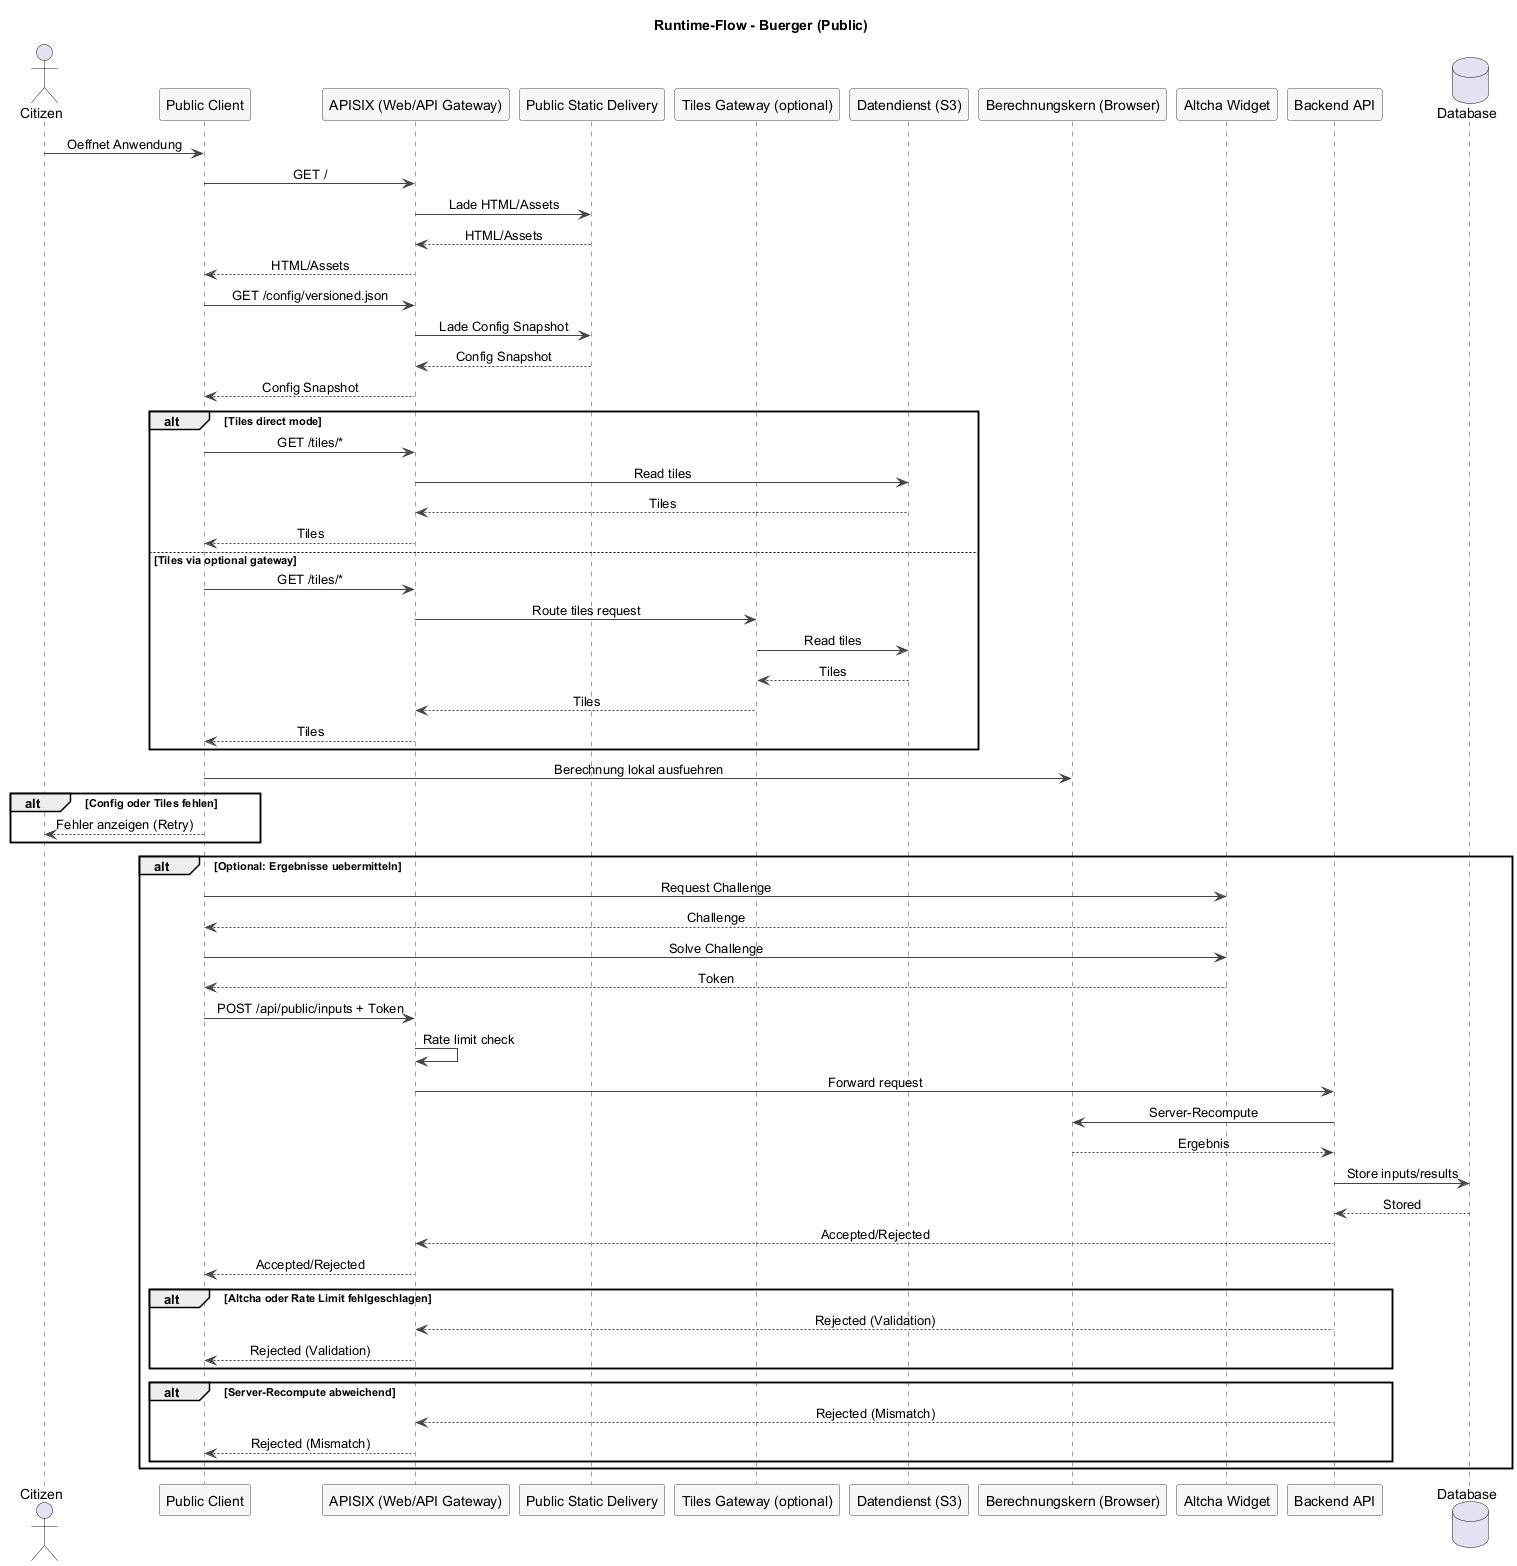
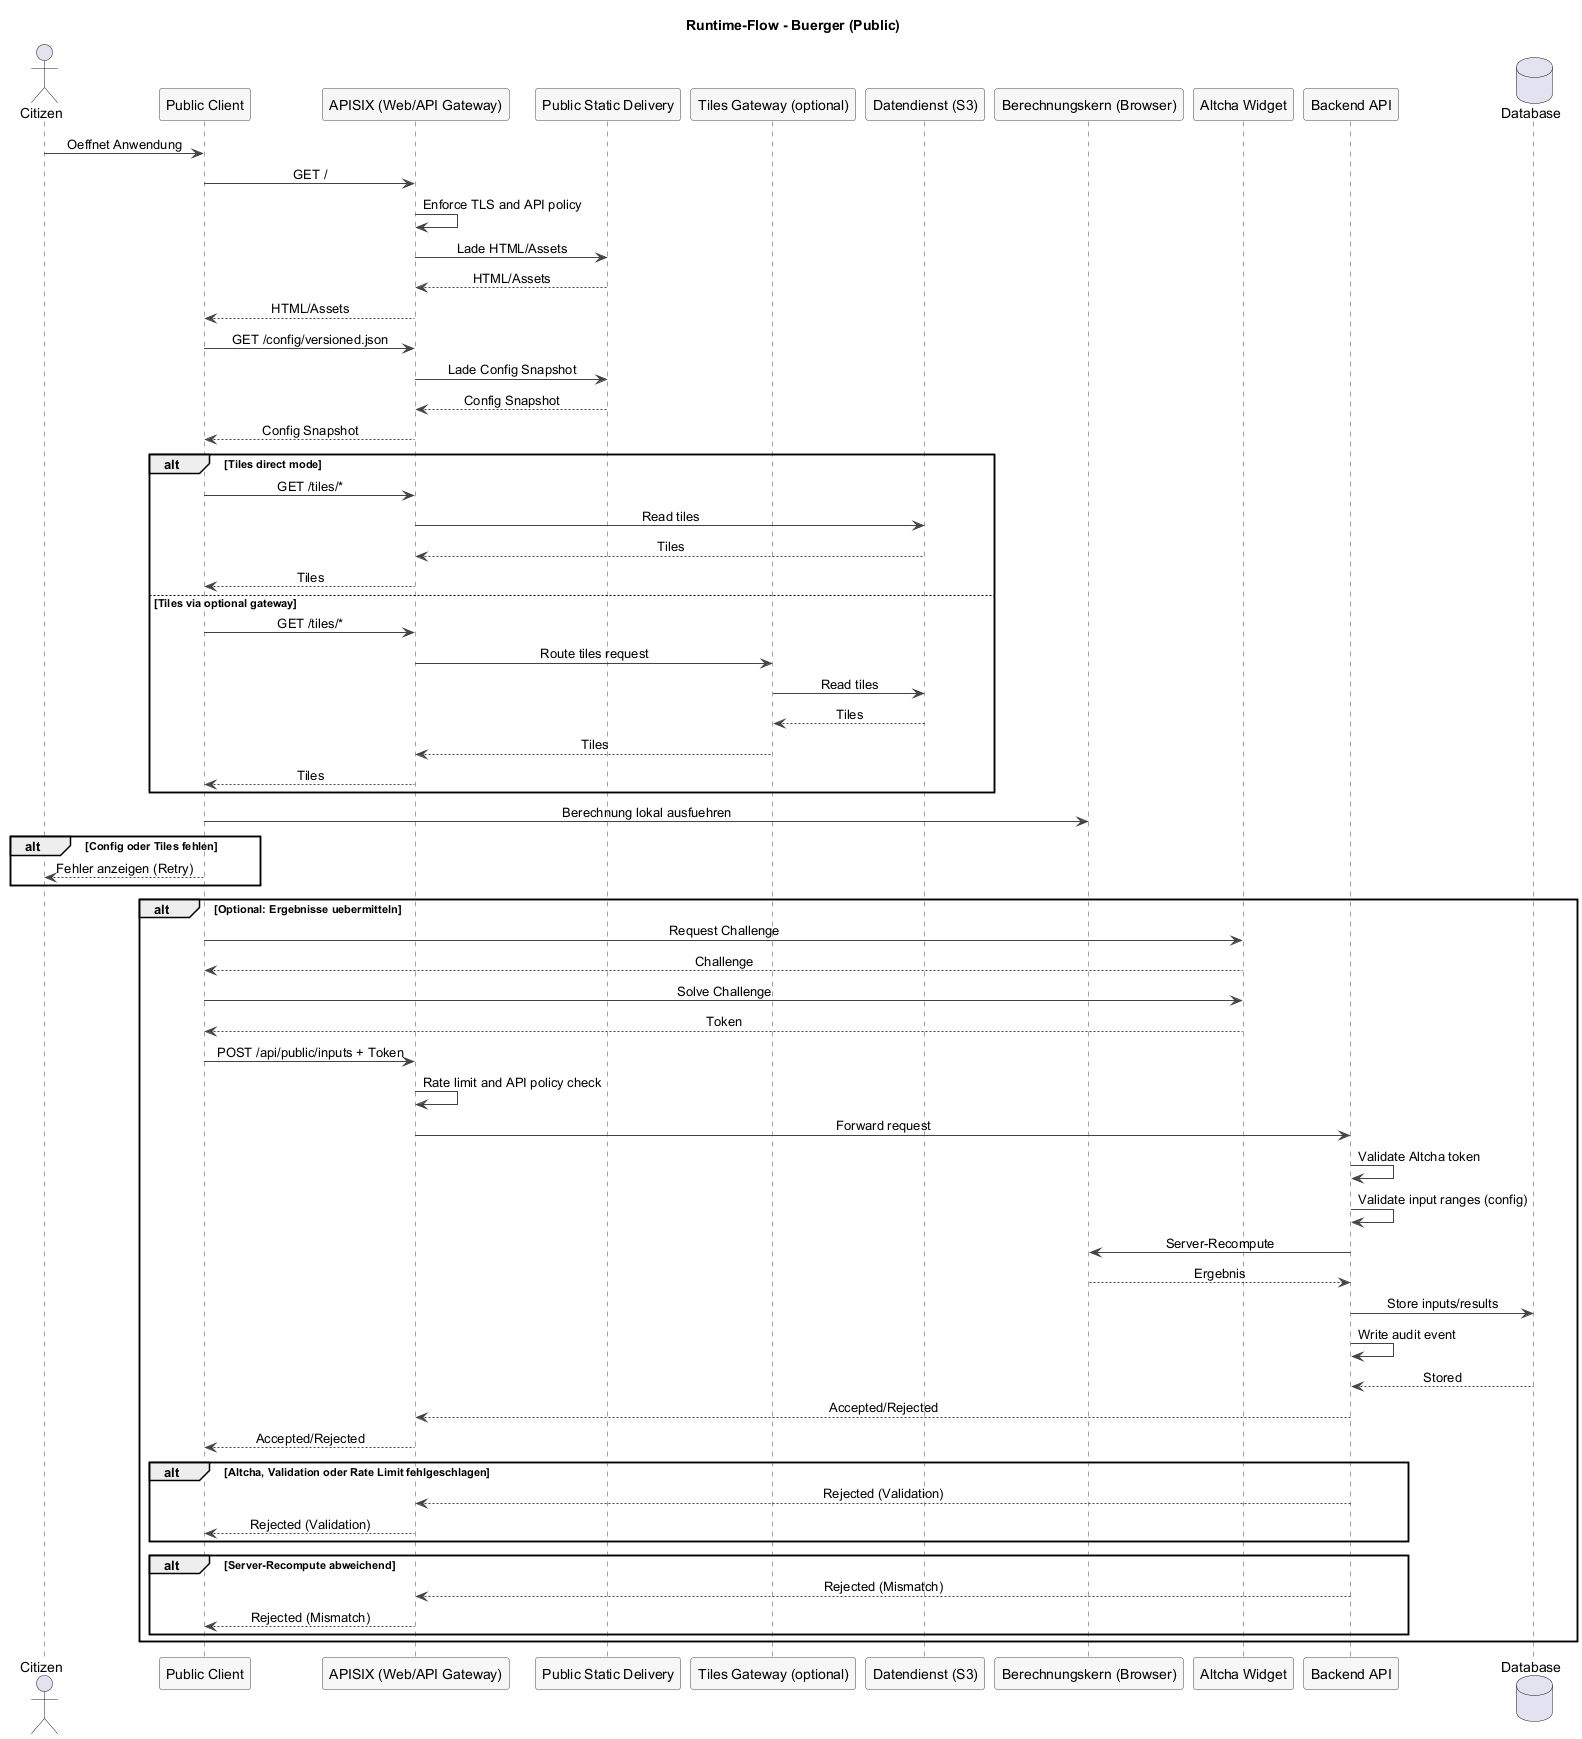
add security by design to architecture docs

diff --git a/docs/architecture/04-architecture-overview.md b/docs/architecture/04-architecture-overview.md
@@ -4,8 +4,9 @@
 
 1. [Ziel der Architektur](#ziel-der-architektur)
 2. [Architekturprinzipien](#architekturprinzipien)
-3. [Zentrale Systembausteine](#zentrale-systembausteine)
-4. [Einordnung im Gesamtsystem](#einordnung-im-gesamtsystem)
+3. [Security by Design in der Architektur](#security-by-design-in-der-architektur)
+4. [Zentrale Systembausteine](#zentrale-systembausteine)
+5. [Einordnung im Gesamtsystem](#einordnung-im-gesamtsystem)
 
 <a id="ziel-der-architektur"></a>
 ## Ziel der Architektur
@@ -70,6 +71,23 @@ Ein Static-Site-Generator wird ausschließlich zur Build-Zeit eingesetzt.
 Zur Laufzeit existiert keine serverseitige Renderlogik.
 
 Die interaktiven Teile der Anwendung werden über klar abgegrenzte Client-Komponenten realisiert.
+
+---
+
+<a id="security-by-design-in-der-architektur"></a>
+## Security by Design in der Architektur
+
+Security by Design wird nicht als separates Add-on verstanden, sondern als feste Architekturinvariante:
+
+- **Single Entry Point**: Externe Zugriffe erfolgen ausschließlich über APISIX; interne Dienste sind nicht direkt öffentlich erreichbar (TA-103, TA-59).
+- **Trust-Boundary Public/Admin**: Öffentliche und administrative Pfade sind technisch getrennt; Admin-HTML wird erst nach erfolgreicher Authentifizierung ausgeliefert (TA-02, TA-04, TA-09).
+- **Missbrauchsschutz bei Public Write**: Altcha, Rate Limiting, serverseitige Validierung und Server-Recompute wirken als kombinierte Schutzkette (TA-47 bis TA-51, TA-62).
+- **Datenminimierung und Angriffsflächenreduktion**: Statische Potenziale liegen in Tiles statt in der Datenbank; das Backend liefert keine großen Tile-Daten aus (TA-14, TA-38).
+- **Konfigurationsintegrität**: Veröffentlicht werden unveränderliche, versionierte Snapshots; Berechnungsergebnisse bleiben reproduzierbar (TA-43 bis TA-46, TA-31).
+- **Plattformhärtung**: Secrets-Management, TLS, Non-Root-Container und auditierbare Security-Events sind verbindlich (TA-60, TA-61, TA-63, TA-64).
+
+Abgrenzung: Das Sicherheitskonzept in `docs/system/03-security-concept.md` beschreibt Ziele, BSI-Bezug und Maßnahmenrahmen.  
+Die Architekturdokumente konkretisieren, **wo** diese Kontrollen technisch verankert sind.
 
 ---
 

diff --git a/docs/architecture/06-architecture-c4-container.md b/docs/architecture/06-architecture-c4-container.md
@@ -5,8 +5,9 @@
 1. [Ziel dieser Sicht](#ziel-dieser-sicht)
 2. [Überblick über die Container](#ueberblick-ueber-die-container)
 3. [Beschreibung der Container](#beschreibung-der-container)
-4. [Kommunikation zwischen den Containern](#kommunikation-zwischen-den-containern)
-5. [Abgrenzung zur Komponenten-Sicht](#abgrenzung-zur-komponenten-sicht)
+4. [Security-Verantwortung pro Container](#security-verantwortung-pro-container)
+5. [Kommunikation zwischen den Containern](#kommunikation-zwischen-den-containern)
+6. [Abgrenzung zur Komponenten-Sicht](#abgrenzung-zur-komponenten-sicht)
 
 <a id="ziel-dieser-sicht"></a>
 ## Ziel dieser Sicht
@@ -152,6 +153,24 @@ Aufgaben:
 - Erzeugung der finalen 3D Tiles
 
 Die Pipeline wird unabhängig vom Betrieb des Live-Systems ausgeführt.
+
+---
+
+<a id="security-verantwortung-pro-container"></a>
+## Security-Verantwortung pro Container
+
+Die Container-Sicht verankert Security by Design als konkrete Zuständigkeit:
+
+| Container | Security-Kernpunkte |
+| --- | --- |
+| APISIX Web Gateway | Erzwingt den externen Eintrittspunkt, trennt Public/Admin-Pfade, setzt Transportschutz und Richtlinien für öffentliche Schreibzugriffe durch. |
+| Frontend | Führt Berechnungen standardmäßig lokal aus; übermittelt Nutzerdaten nur optional und explizit ausgelöst. |
+| Backend API | Erzwingt AuthN/AuthZ, validiert Eingaben serverseitig, prüft/verifiziert Public-Write-Payloads und protokolliert sicherheitsrelevante Ereignisse. |
+| Datenbank | Ist nicht öffentlich erreichbar; Zugriffe erfolgen ausschließlich über das Backend mit rollenbasierten Rechten. |
+| 3D Tiles Storage / Tiles Gateway | Dient nur der Auslieferung statischer Artefakte; keine fachliche Schreiblogik aus Public-Laufzeitpfaden. |
+| Offline-Datenpipeline | Läuft getrennt vom Laufzeitsystem, nutzt dedizierte Job-Kontexte und arbeitet mit minimalen Datendienst-Berechtigungen. |
+
+Diese Verantwortungsverteilung deckt insbesondere TA-58 bis TA-64, TA-103 sowie den BSI-Bezug aus TA-97 ab.
 
 ---
 

diff --git a/docs/architecture/07-architecture-c4-components.md b/docs/architecture/07-architecture-c4-components.md
@@ -7,9 +7,10 @@
 3. [Frontend-Komponenten](#frontend-komponenten)
 4. [Backend-Komponenten](#backend-komponenten)
 5. [Berechnungskern](#berechnungskern)
-6. [Offline-Datenpipeline](#offline-datenpipeline)
-7. [Datenflüsse (zusammengefasst)](#datenfluesse-zusammengefasst)
-8. [Abgrenzung](#abgrenzung)
+6. [Security-Kontrollpunkte](#security-kontrollpunkte)
+7. [Offline-Datenpipeline](#offline-datenpipeline)
+8. [Datenflüsse (zusammengefasst)](#datenfluesse-zusammengefasst)
+9. [Abgrenzung](#abgrenzung)
 
 <a id="ziel-dieser-sicht"></a>
 ## Ziel dieser Sicht
@@ -215,6 +216,22 @@ Eigenschaften:
 - Übergabe von Konfiguration und Nutzereingaben als Parameter
 
 Der Berechnungskern ist bewusst frei von Infrastrukturabhängigkeiten.
+
+---
+
+<a id="security-kontrollpunkte"></a>
+## Security-Kontrollpunkte
+
+Auf Komponentenebene werden Sicherheitsanforderungen als konkrete Kontrollpunkte umgesetzt:
+
+- **Protected Admin HTML Gateway + Auth Middleware**: Erzwingen OIDC-basierte Authentifizierung und rollenbasierte Autorisierung vor Auslieferung administrativer Inhalte.
+- **OpenAPI Controllers**: Trennen öffentliche und administrative Endpunkte, validieren Anfragen und leiten nur validierte Daten an Fachservices weiter.
+- **User Data Service**: Verarbeitet öffentliche Schreibzugriffe nur nach Schutzkette aus Challenge/Rate-Limit/Validierung/Verifikation.
+- **Configuration Service + Snapshot Exporter**: Erzwingen versionierte, unveränderliche Veröffentlichungen statt in-place-Änderungen.
+- **Triage/Reporting-Pfad**: Statuswechsel werden nachvollziehbar geführt und für Audit-Zwecke protokolliert.
+- **Observability**: Erfasst sicherheitsrelevante Ereignisse (Auth, Zugriffsentscheidungen, Fehlerpfade) als Grundlage für Incident-Analyse.
+
+Damit sind die Security-by-Design-Prinzipien aus TA-58 bis TA-64 in den Kernkomponenten technisch verankert.
 
 ---
 

diff --git a/docs/architecture/08-data-model-api-view.md b/docs/architecture/08-data-model-api-view.md
@@ -5,7 +5,8 @@
 1. [Ziel dieser Sicht](#ziel-dieser-sicht)
 2. [Datenmodell (abgeleitet)](#datenmodell-abgeleitet)
 3. [API-Sicht (erste Ableitung)](#api-sicht-erste-ableitung)
-4. [Abgleich und Entscheidungen](#abgleich-und-entscheidungen)
+4. [Security by Design im Daten- und API-Vertrag](#security-by-design-im-daten-und-api-vertrag)
+5. [Abgleich und Entscheidungen](#abgleich-und-entscheidungen)
 
 <a id="ziel-dieser-sicht"></a>
 ## Ziel dieser Sicht
@@ -161,6 +162,22 @@ Quelle: `raw/public-write-flow.puml`
 - **Source of Truth**: OpenAPI 3.0 aus dem Backend (Fastify-toab/Fastify-Swagger).
 - **Generator**: `@hey-api/openapi-ts`.
 - **Frontend-Integration**: Nutzung der React-Query-Erweiterung für typsichere Query-/Mutation-Hooks.
+
+---
+
+<a id="security-by-design-im-daten-und-api-vertrag"></a>
+## Security by Design im Daten- und API-Vertrag
+
+Security by Design wird in Datenmodell und API-Vertrag explizit verankert:
+
+- **Minimale Datenerhebung**: Pflicht zur Berechnung ohne obligatorische personenbezogene Übermittlung; Persistenz bleibt optional und explizit.
+- **Vertragsbasierte Eingabehärtung**: Public-Write-Requests werden über Schema und Wertebereiche geprüft; ungültige Payloads werden verworfen.
+- **Verifikation vor Weiterverwendung**: Serverseitige Neu-Berechnung und Triage sind Voraussetzungen für interne Indexierung.
+- **Lebenszyklus-Kontrolle**: Statuswechsel folgen einem definierten Triage-Lifecycle und werden auditierbar protokolliert.
+- **Konfigurationsintegrität**: Versionierte Snapshots und Checksummen sichern Reproduzierbarkeit und Änderungsnachvollziehbarkeit.
+- **Zugriffsmodell**: OIDC-geschützte Admin-Endpunkte, getrennt von öffentlichen Endpunkten.
+
+Diese Vertragsregeln entsprechen insbesondere TA-48 bis TA-50, TA-81 bis TA-84, TA-43 bis TA-46 sowie TA-58 bis TA-64.
 
 ---
 

diff --git a/docs/architecture/09-runtime-flows-ops-view.md b/docs/architecture/09-runtime-flows-ops-view.md
@@ -4,11 +4,12 @@
 
 1. [Ziel dieser Sicht](#ziel-dieser-sicht)
 2. [Runtime-Flows](#runtime-flows)
-3. [Ops-Sicht](#ops-sicht)
-4. [Sicherheit (Betrieb)](#sicherheit-betrieb)
-5. [Daten-Governance](#daten-governance)
-6. [Teststrategie (Minimal)](#teststrategie-minimal)
-7. [Zuständigkeiten und Betriebsprozesse](#zustaendigkeiten-und-betriebsprozesse)
+3. [Security by Design in Runtime-Flows](#security-by-design-in-runtime-flows)
+4. [Ops-Sicht](#ops-sicht)
+5. [Sicherheit (Betrieb)](#sicherheit-betrieb)
+6. [Daten-Governance](#daten-governance)
+7. [Teststrategie (Minimal)](#teststrategie-minimal)
+8. [Zuständigkeiten und Betriebsprozesse](#zustaendigkeiten-und-betriebsprozesse)
 
 <a id="ziel-dieser-sicht"></a>
 ## Ziel dieser Sicht
@@ -66,6 +67,21 @@ Fehlerpfade: ungültiger Token, Adresse stimmt nicht, Datensatz nicht gefunden, 
 ![runtime-flow-delete.png](./attachments/runtime-flow-delete.png)
 
 Quelle: `raw/runtime-flow-delete.puml`
+
+---
+
+<a id="security-by-design-in-runtime-flows"></a>
+## Security by Design in Runtime-Flows
+
+Die Laufzeitpfade enthalten explizite Sicherheitskontrollen:
+
+- **Public Flow**: Challenge-Token, Rate Limiting, serverseitige Eingabevalidierung und Recompute-Verifikation vor Persistenz.
+- **Admin Flow**: OIDC-Anmeldung, Rollenprüfung und geschützte Auslieferung des Admin-HTMLs vor administrativen Aktionen.
+- **Admin Triage Flow**: Berechtigte Statusänderungen, Lifecycle-gebundene Übergänge und Audit-Log je Änderung.
+- **Pipeline Flow**: Getrennte Offline-Ausführung, kontrollierte Artefaktpfade je `job_id`, kein partieller Erfolgsstatus bei Teilfehlern.
+- **Delete Flow**: Zweistufige Verifikation (Token + Bestätigung/Abgleich) vor Löschung.
+
+Übergreifende Invariante: Jeder Flow besitzt einen klaren Reject-Pfad mit nachvollziehbarer Protokollierung.
 
 ---
 

diff --git a/docs/architecture/05-architecture-c4-context.md b/docs/architecture/05-architecture-c4-context.md
@@ -6,7 +6,8 @@
 2. [Kontextdiagramm](#kontextdiagramm)
 3. [Akteure und Systeme](#akteure-und-systeme)
 4. [Schnittstellen und Datenflüsse (high level)](#schnittstellen-und-datenfluesse-high-level)
-5. [Abgrenzung zur Container-Sicht](#abgrenzung-zur-container-sicht)
+5. [Security-Perspektive auf Kontext-Ebene](#security-perspektive-auf-kontext-ebene)
+6. [Abgrenzung zur Container-Sicht](#abgrenzung-zur-container-sicht)
 
 <a id="ziel-dieser-sicht"></a>
 ## Ziel dieser Sicht
@@ -50,6 +51,25 @@ Quelle: `raw/c4-context.puml`
 - Admin-Authentifizierung erfolgt über OIDC gegen Keycloak (CIVITAS/CORE).
 - Basemaps werden zur Laufzeit aus City Geo Services geladen (WMS/WMTS).
 - CityGML- und Potenzialdaten werden **offline** in das System importiert.
+
+---
+
+<a id="security-perspektive-auf-kontext-ebene"></a>
+## Security-Perspektive auf Kontext-Ebene
+
+Auf Kontext-Ebene sind drei Sicherheitsgrenzen maßgeblich:
+
+- **Internet zu DEZ**: Externe Zugriffe erfolgen ausschließlich verschlüsselt über den öffentlichen Plattformzugang; Public- und Admin-Pfade sind getrennt.
+- **DEZ zu Plattformdiensten**: Administrative Authentifizierung erfolgt nur über den zentralen OIDC-Provider (Keycloak).
+- **Offline-Datenzufluss**: CityGML- und Potenzialdaten werden außerhalb der Laufzeit verarbeitet; Laufzeitpfade bleiben schlank und kontrollierbar.
+
+Sicherheitsrelevante Konsequenzen:
+
+- Kein direkter Client-Zugriff auf interne Persistenz.
+- Keine direkte öffentliche Exponierung interner Services.
+- Öffentliche Schreibzugriffe werden als eigener Schutzpfad behandelt (Challenge, Rate Limiting, Validierung, Verifikation).
+
+Diese Sicht referenziert insbesondere TA-58 bis TA-64 sowie TA-103.
 
 ---
 
